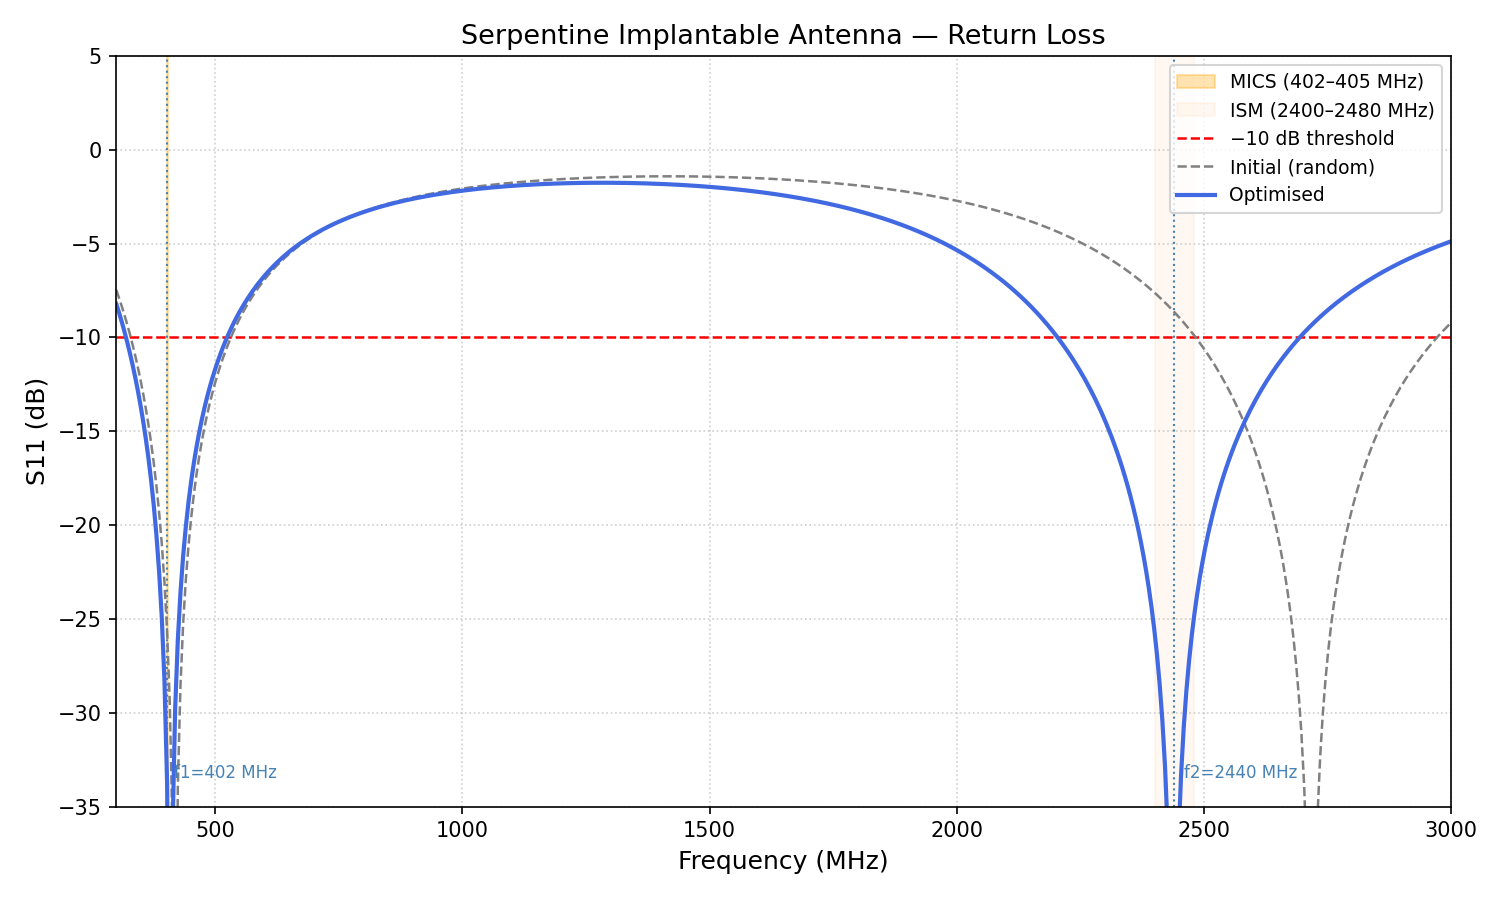
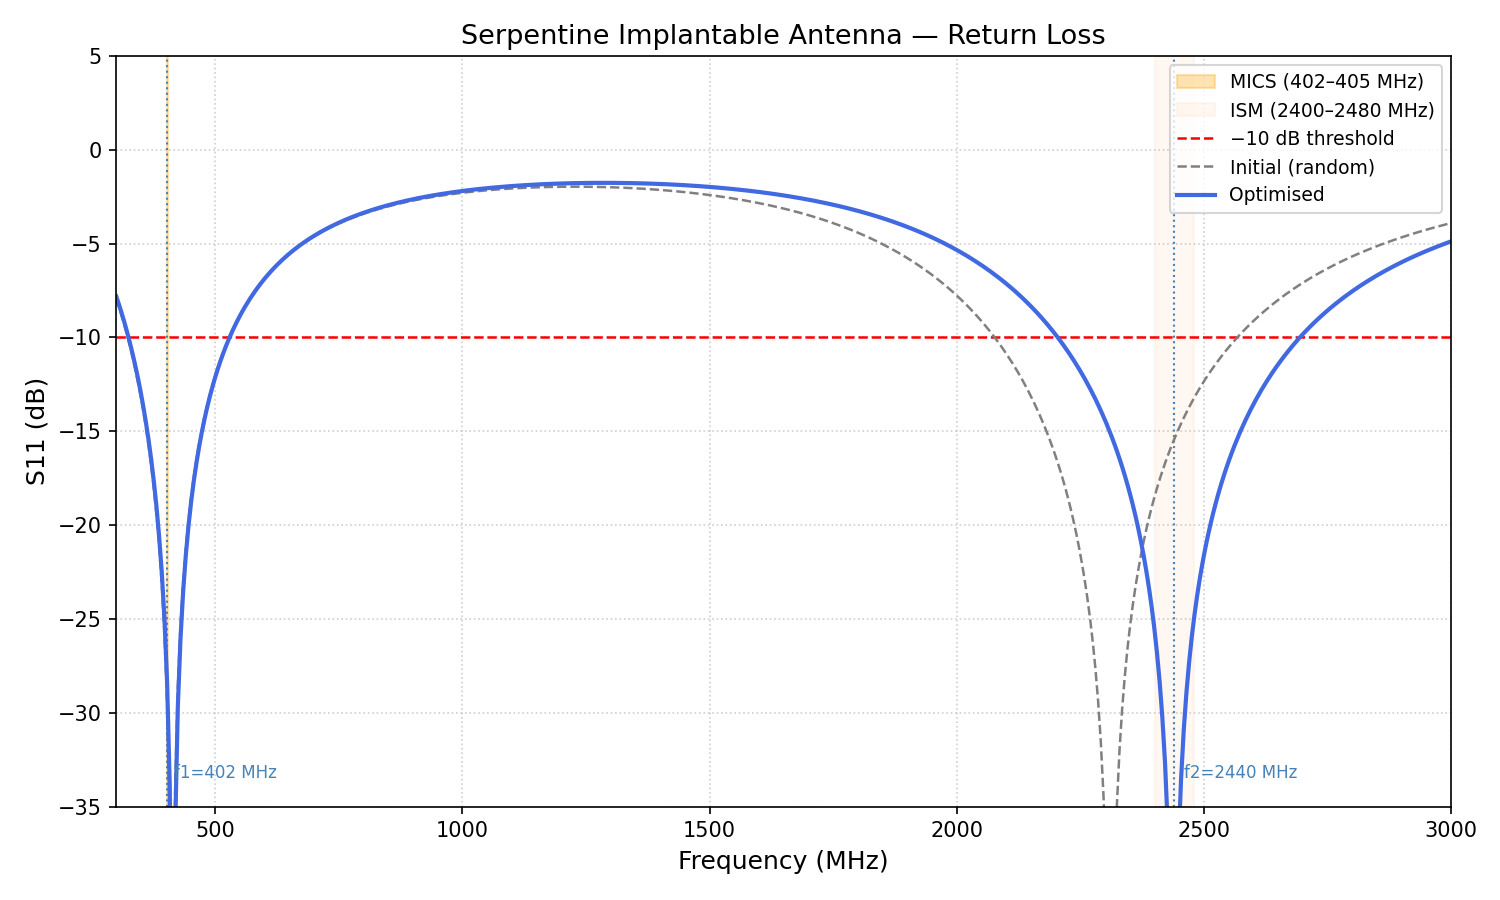
Add feed-on-copper and pin-on-copper constraints to PSO
Previously the optimiser could place the feed probe or shorting pin
inside a slot cutout, which is physically invalid (no copper there).
Added _slot_bbox / _point_in_slot helpers and two new checks to
check_constraints so any particle where feed (0, F_y) or the pin
(pin_x, pin_y) falls within a slot's bounding box is rejected and
re-randomised. Regenerated plots with the corrected solution.

https://claude.ai/code/session_01JEWjV6Adqi3WGtQ47Wr5mc

diff --git a/dual_band_antenna.py b/dual_band_antenna.py
@@ -261,6 +261,31 @@ def _unpack_params(p):
     return slots, p[12], p[13], p[14], p[15]
 
 
+def _slot_bbox(i, P_s, W_s, L_s):
+    """
+    Return (x_lo, x_hi, y_lo, y_hi) bounding box of slot i in metres.
+    Odd slots (i=0,2) open from the bottom edge; even (i=1,3) from the top.
+    """
+    x_lo = P_s[i] - W_s[i] / 2
+    x_hi = P_s[i] + W_s[i] / 2
+    if i % 2 == 0:   # bottom-opening
+        y_lo = -L_p / 2
+        y_hi = -L_p / 2 + L_s[i]
+    else:             # top-opening
+        y_lo = L_p / 2 - L_s[i]
+        y_hi =  L_p / 2
+    return x_lo, x_hi, y_lo, y_hi
+
+
+def _point_in_slot(px, py, P_s, W_s, L_s):
+    """Return True if point (px, py) falls inside any slot's footprint."""
+    for i in range(4):
+        x_lo, x_hi, y_lo, y_hi = _slot_bbox(i, P_s, W_s, L_s)
+        if x_lo < px < x_hi and y_lo < py < y_hi:
+            return True
+    return False
+
+
 def check_constraints(p):
     """
     Return True if particle satisfies all geometric constraints.
@@ -271,11 +296,16 @@ def check_constraints(p):
       P_s4 + W_s4/2 <  7.0 mm
       P_si + W_si/2 < P_s(i+1) - W_s(i+1)/2   for i = 1,2,3
       L_c < L_s4
+      Feed point (0, F_y) must lie on copper — not inside any slot
+      Shorting pin (pin_x, pin_y) must lie on copper — not inside any slot
     """
     P_s = [p[0], p[3], p[6], p[9]]
     W_s = [p[1], p[4], p[7], p[10]]
     L_s = [p[2], p[5], p[8], p[11]]
     L_c = p[12]
+    F_y = p[13]
+    P_x = p[14]
+    P_y = p[15]
 
     if any(L_s[i] >= L_p for i in range(4)):
         return False
@@ -288,6 +318,17 @@ def check_constraints(p):
             return False
     if L_c >= L_s[3]:
         return False
+
+    # Feed (x=0, y=F_y) must be on copper patch and not in any slot
+    if _point_in_slot(0.0, F_y, P_s, W_s, L_s):
+        return False
+
+    # Shorting pin must not be inside any slot
+    pin_x = P_s[2] - W_s[2] / 2 - P_x
+    pin_y = L_p / 2 - P_y
+    if _point_in_slot(pin_x, pin_y, P_s, W_s, L_s):
+        return False
+
     return True
 
 
